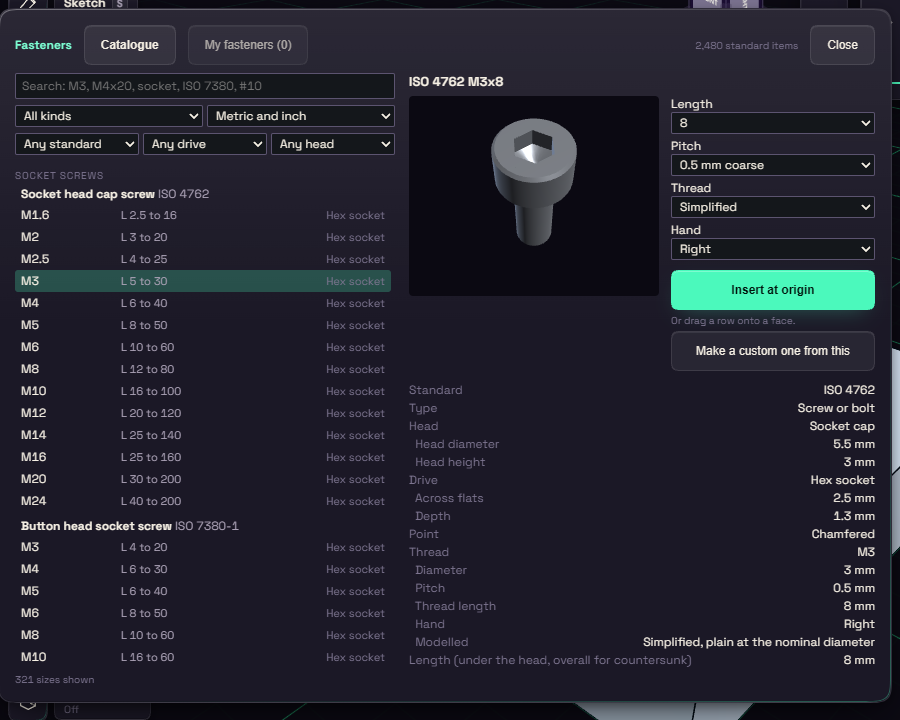
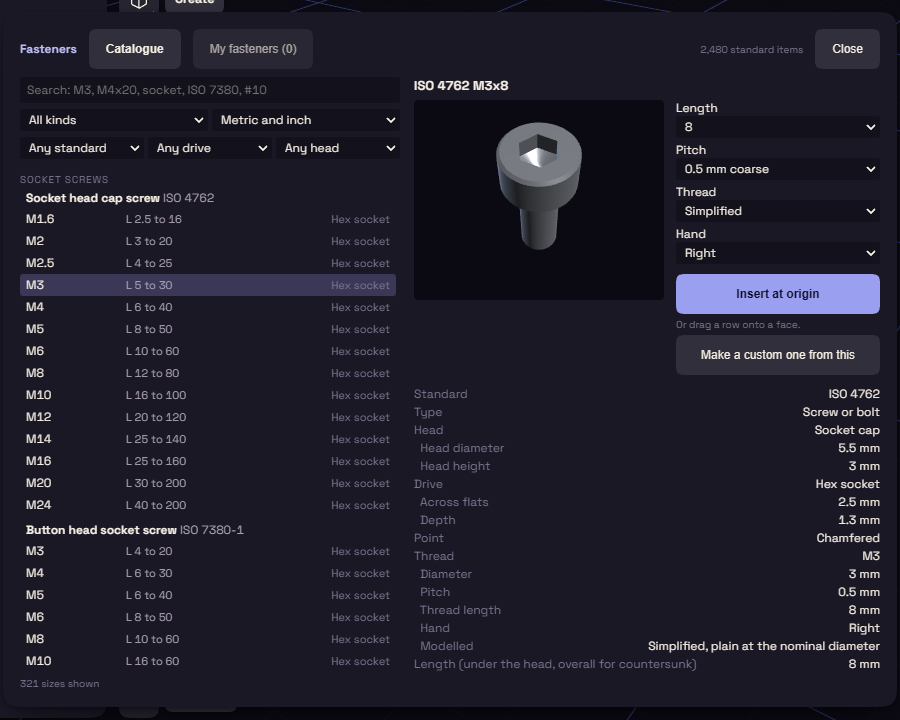
docs: The Parameter Setup and Fasteners pictures show a filled dialog and a real preview

diff --git a/manual/docs/plugins/screws.md b/manual/docs/plugins/screws.md
@@ -8,7 +8,7 @@ Fasteners is a library of standard screws, bolts, nuts, washers and heat-set ins
 
 1. Pick Fasteners and search the Catalogue, for example `M4x20` or `socket`.
 2. Click a row to see its preview and specs, with the clearance hole and the tap drill.
-3. Set Length, Drive, Pitch and Thread if you need others.
+3. Set Length, Pitch, Thread and Hand if you need others. Drive shows when the screw comes with more than one.
 4. Select a flat face and press Insert on selected face, or drag the row onto a face.
 
 With no face selected, the button reads Insert at origin. Thread Simplified is a plain cylinder that builds fast, and Modelled helix builds a real thread for close-ups.
